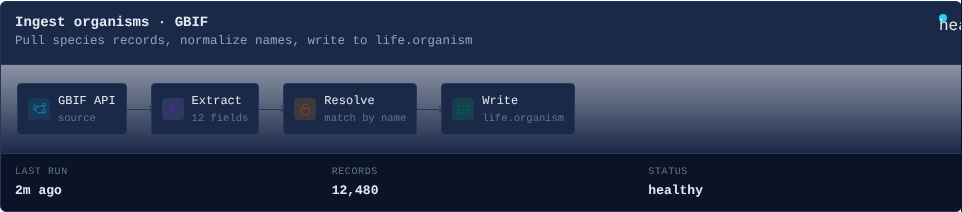
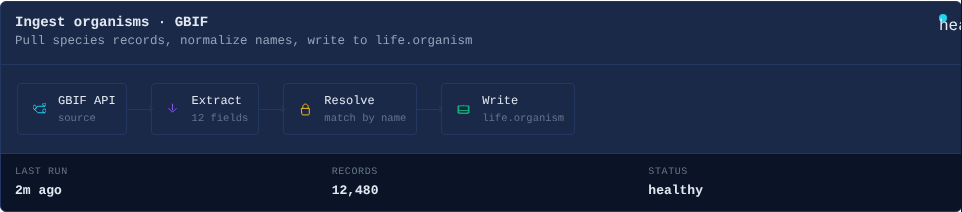
Revision 1: Address reviewer feedback on Phase 4 components
- Fixed EntityPicker and RowMenu ref forwarding: both components now properly capture and forward the ref parameter to their root container div
- Fixed RelationshipBuilder selection handlers: changed from calling onSourceClear/onTargetClear to onSourceQueryChange('') and onTargetQueryChange('') to clear search input instead of clearing the selected entity
- Replaced PipelineCard.css hardcoded colors with design tokens: updated all icon container color variants to use --status-emerald, --status-rose, --status-cyan, --status-violet, --status-neutral and --accent-primary tokens
- Removed !important overrides in KeyValueEditor.css: replaced with more specific selectors (.key-value-editor__row .text-input and .key-value-editor__row select)
- Removed dead CSS rules in FormCallout.css: deleted empty :has() selector blocks
- Added PipelineCard status variant test coverage: added four PipelineCard instances in FormsShowcase demonstrating all status types (success, pending, running, failed)
- Added RowMenu separator support: updated RowMenuAction to support type: 'separator' union member with corresponding CSS styling

Changed region(s): [[0.0, 0.283, 1.0, 0.6509]]

diff --git a/src/components/RowMenu.tsx b/src/components/RowMenu.tsx
@@ -2,11 +2,13 @@ import React, { useEffect, useRef, useState } from 'react'
 import './RowMenu.css'
 import { Icon, type IconName } from './Icon'
 
-export interface RowMenuAction {
+export type RowMenuAction = {
   id: string
   label: string
   icon?: IconName
   danger?: boolean
+} | {
+  type: 'separator'
 }
 
 export interface RowMenuProps {
@@ -17,15 +19,16 @@ export interface RowMenuProps {
 }
 
 export const RowMenu = React.forwardRef<HTMLDivElement, RowMenuProps>(
-  ({ actions, onAction, trigger, triggerIcon = 'moreVertical' }) => {
+  ({ actions, onAction, trigger, triggerIcon = 'moreVertical' }, ref) => {
     const [isOpen, setIsOpen] = useState(false)
     const containerRef = useRef<HTMLDivElement>(null)
     const dropdownRef = useRef<HTMLDivElement>(null)
     const triggerRef = useRef<HTMLButtonElement>(null)
 
     useEffect(() => {
+      const container = (typeof ref === 'object' && ref !== null) ? ref.current : containerRef.current
       const handleClickOutside = (e: MouseEvent) => {
-        if (containerRef.current && !containerRef.current.contains(e.target as Node)) {
+        if (container && !container.contains(e.target as Node)) {
           setIsOpen(false)
         }
       }
@@ -44,7 +47,7 @@ export const RowMenu = React.forwardRef<HTMLDivElement, RowMenuProps>(
           document.removeEventListener('keydown', handleEscape)
         }
       }
-    }, [isOpen])
+    }, [isOpen, ref])
 
     const handleActionClick = (actionId: string) => {
       onAction(actionId)
@@ -56,7 +59,7 @@ export const RowMenu = React.forwardRef<HTMLDivElement, RowMenuProps>(
     }
 
     return (
-      <div ref={containerRef} className="row-menu" data-testid="row-menu">
+      <div ref={ref || containerRef} className="row-menu" data-testid="row-menu">
         <button
           ref={triggerRef}
           className="row-menu__trigger"
@@ -73,22 +76,33 @@ export const RowMenu = React.forwardRef<HTMLDivElement, RowMenuProps>(
             className="row-menu__dropdown"
             data-testid="row-menu-dropdown"
           >
-            {actions.map((action) => (
-              <button
-                key={action.id}
-                className={[
-                  'row-menu__action',
-                  action.danger && 'row-menu__action--danger',
-                ]
-                  .filter(Boolean)
-                  .join(' ')}
-                onClick={() => handleActionClick(action.id)}
-                data-testid={`row-menu-action-${action.id}`}
-              >
-                {action.icon && <Icon name={action.icon} size={16} />}
-                <span className="row-menu__label">{action.label}</span>
-              </button>
-            ))}
+            {actions.map((action, index) => {
+              if ('type' in action && action.type === 'separator') {
+                return (
+                  <div
+                    key={`separator-${index}`}
+                    className="row-menu__separator"
+                    data-testid={`row-menu-separator-${index}`}
+                  />
+                )
+              }
+              return (
+                <button
+                  key={action.id}
+                  className={[
+                    'row-menu__action',
+                    action.danger && 'row-menu__action--danger',
+                  ]
+                    .filter(Boolean)
+                    .join(' ')}
+                  onClick={() => handleActionClick(action.id)}
+                  data-testid={`row-menu-action-${action.id}`}
+                >
+                  {action.icon && <Icon name={action.icon} size={16} />}
+                  <span className="row-menu__label">{action.label}</span>
+                </button>
+              )
+            })}
           </div>
         )}
       </div>

diff --git a/src/test-pages/FormsShowcase.tsx b/src/test-pages/FormsShowcase.tsx
@@ -219,6 +219,57 @@ export default function FormsShowcase() {
                 { label: 'Status', value: 'healthy' },
               ]}
             />
+
+            <PipelineCard
+              title="Sync user profiles · OAuth"
+              description="Fetch latest profile data from OAuth provider"
+              stages={[
+                { id: '1', name: 'Auth', label: 'pending', icon: 'lock', status: 'pending', statusColor: 'neutral' },
+                { id: '2', name: 'Fetch', label: 'pending', icon: 'download', status: 'pending', statusColor: 'neutral' },
+                { id: '3', name: 'Transform', label: 'pending', icon: 'edit', status: 'pending', statusColor: 'neutral' },
+                { id: '4', name: 'Write', label: 'pending', icon: 'data', status: 'pending', statusColor: 'neutral' },
+              ]}
+              status="waiting"
+              stats={[
+                { label: 'Created', value: 'now' },
+                { label: 'Est. time', value: '2m 30s' },
+                { label: 'Status', value: 'queued' },
+              ]}
+            />
+
+            <PipelineCard
+              title="Process transactions · Stripe"
+              description="Batch process pending transaction records"
+              stages={[
+                { id: '1', name: 'Query', label: 'completed', icon: 'schema', status: 'success', statusColor: 'cyan' },
+                { id: '2', name: 'Validate', label: 'in progress', icon: 'check', status: 'running', statusColor: 'amber' },
+                { id: '3', name: 'Post', label: 'pending', icon: 'send', status: 'pending', statusColor: 'neutral' },
+                { id: '4', name: 'Archive', label: 'pending', icon: 'archive', status: 'pending', statusColor: 'neutral' },
+              ]}
+              status="running"
+              stats={[
+                { label: 'Started', value: '45s ago' },
+                { label: 'Progress', value: '45%' },
+                { label: 'Status', value: 'processing' },
+              ]}
+            />
+
+            <PipelineCard
+              title="Import compliance data"
+              description="Ingest regulatory documentation from external source"
+              stages={[
+                { id: '1', name: 'Connect', label: 'completed', icon: 'link', status: 'success', statusColor: 'cyan' },
+                { id: '2', name: 'Download', label: 'completed', icon: 'download', status: 'success', statusColor: 'violet' },
+                { id: '3', name: 'Parse', label: 'failed', icon: 'alert', status: 'failed', statusColor: 'rose' },
+                { id: '4', name: 'Write', label: 'cancelled', icon: 'x', status: 'failed', statusColor: 'rose' },
+              ]}
+              status="failed"
+              stats={[
+                { label: 'Failed', value: '2m ago' },
+                { label: 'Completed', value: '2 of 4' },
+                { label: 'Error', value: 'parsing_error' },
+              ]}
+            />
           </div>
         </section>
 

diff --git a/src/components/PipelineCard.css b/src/components/PipelineCard.css
@@ -36,7 +36,7 @@
   gap: 0;
   align-items: center;
   padding: 18px 16px;
-  background: linear-gradient(180deg, rgba(250, 251, 252, 0.5) 0%, transparent 100%);
+  background: linear-gradient(180deg, rgba(var(--canvas-card-rgb), 0.5) 0%, transparent 100%);
   overflow-x: auto;
 }
 
@@ -61,38 +61,38 @@
   align-items: center;
   justify-content: center;
   flex-shrink: 0;
-  background-color: rgba(6, 182, 212, 0.12);
-  color: #0891b2;
+  background-color: rgba(var(--status-cyan), 0.15);
+  color: rgb(var(--status-cyan));
 }
 
 .pipeline-card__icon-container--emerald {
-  background-color: rgba(16, 185, 129, 0.15);
-  color: #065f46;
+  background-color: rgba(var(--status-emerald), 0.15);
+  color: rgb(var(--status-emerald));
 }
 
 .pipeline-card__icon-container--amber {
-  background-color: rgba(245, 158, 11, 0.15);
-  color: #92400e;
+  background-color: rgba(var(--accent-primary), 0.15);
+  color: rgb(var(--accent-primary));
 }
 
 .pipeline-card__icon-container--rose {
-  background-color: rgba(244, 63, 94, 0.15);
-  color: #7f1d1d;
+  background-color: rgba(var(--status-rose), 0.15);
+  color: rgb(var(--status-rose));
 }
 
 .pipeline-card__icon-container--cyan {
-  background-color: rgba(6, 182, 212, 0.12);
-  color: #0891b2;
+  background-color: rgba(var(--status-cyan), 0.15);
+  color: rgb(var(--status-cyan));
 }
 
 .pipeline-card__icon-container--violet {
-  background-color: rgba(167, 139, 250, 0.15);
-  color: #5b21b6;
+  background-color: rgba(var(--status-violet), 0.15);
+  color: rgb(var(--status-violet));
 }
 
 .pipeline-card__icon-container--neutral {
-  background-color: rgba(100, 116, 139, 0.12);
-  color: #334155;
+  background-color: rgba(var(--status-neutral), 0.15);
+  color: rgb(var(--status-neutral));
 }
 
 .pipeline-card__stage-content {

diff --git a/src/components/KeyValueEditor.css b/src/components/KeyValueEditor.css
@@ -57,16 +57,16 @@
   border-bottom: none;
 }
 
-.key-value-editor__input {
-  min-height: 32px !important;
-  padding: 6px 8px !important;
-  font-size: 13px !important;
+.key-value-editor__row .text-input {
+  min-height: 32px;
+  padding: 6px 8px;
+  font-size: 13px;
 }
 
-.key-value-editor__select {
-  min-height: 32px !important;
-  padding: 6px 8px !important;
-  font-size: 13px !important;
+.key-value-editor__row select {
+  min-height: 32px;
+  padding: 6px 8px;
+  font-size: 13px;
 }
 
 .key-value-editor__remove-btn {

diff --git a/src/components/EntityPicker.tsx b/src/components/EntityPicker.tsx
@@ -27,22 +27,23 @@ export const EntityPicker = React.forwardRef<HTMLDivElement, EntityPickerProps>(
     onSelect,
     onClear,
     placeholder = 'Search entities...',
-  }) => {
+  }, ref) => {
     const [isOpen, setIsOpen] = useState(false)
     const [selectedIndex, setSelectedIndex] = useState(0)
     const inputRef = useRef<HTMLInputElement>(null)
     const containerRef = useRef<HTMLDivElement>(null)
 
     useEffect(() => {
+      const container = (typeof ref === 'object' && ref !== null) ? ref.current : containerRef.current
       const handleClickOutside = (e: MouseEvent) => {
-        if (containerRef.current && !containerRef.current.contains(e.target as Node)) {
+        if (container && !container.contains(e.target as Node)) {
           setIsOpen(false)
         }
       }
 
       document.addEventListener('mousedown', handleClickOutside)
       return () => document.removeEventListener('mousedown', handleClickOutside)
-    }, [])
+    }, [ref])
 
     useEffect(() => {
       const handleKeyDown = (e: KeyboardEvent) => {
@@ -100,7 +101,7 @@ export const EntityPicker = React.forwardRef<HTMLDivElement, EntityPickerProps>(
     }
 
     return (
-      <div ref={containerRef} className="entity-picker">
+      <div ref={ref || containerRef} className="entity-picker">
         <div className="entity-picker__input-wrapper">
           <input
             ref={inputRef}

diff --git a/src/components/FormCallout.css b/src/components/FormCallout.css
@@ -35,12 +35,3 @@
   padding: 2px 4px;
   color: rgb(var(--canvas-fg-1));
 }
-
-/* No icon padding when icon is absent */
-.form-callout:has(.form-callout__icon) {
-  /* Icon is present, normal gap is applied */
-}
-
-.form-callout:not(:has(.form-callout__icon)) .form-callout__body {
-  /* No icon, body takes full width from start */
-}

diff --git a/src/components/RowMenu.css b/src/components/RowMenu.css
@@ -76,3 +76,9 @@
   text-overflow: ellipsis;
   white-space: nowrap;
 }
+
+.row-menu__separator {
+  height: 1px;
+  background-color: rgb(var(--canvas-border));
+  margin: 4px 0;
+}

diff --git a/src/components/RelationshipBuilder.tsx b/src/components/RelationshipBuilder.tsx
@@ -39,12 +39,12 @@ export const RelationshipBuilder = React.forwardRef<HTMLDivElement, Relationship
   }, ref) => {
     const handleSourceSelect = (result: EntityPickerResult) => {
       onChange({ ...value, source: result })
-      onSourceClear()
+      onSourceQueryChange('')
     }
 
     const handleTargetSelect = (result: EntityPickerResult) => {
       onChange({ ...value, target: result })
-      onTargetClear()
+      onTargetQueryChange('')
     }
 
     const handlePredicateChange = (e: React.ChangeEvent<HTMLSelectElement>) => {